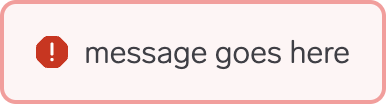
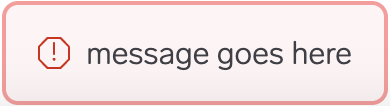
Bump warp deps - react: 1.4.2, vue: 1.2.4 and css: 1.8.3 (#182)

Changed region(s): [[0.0, 0.0, 1.0, 1.0], [0.2171, 0.375, 0.8992, 0.6635], [0.093, 0.3462, 0.186, 0.6635]]

diff --git a/docs/blog/posts/week7.md b/docs/blog/posts/week7.md
@@ -1,0 +1,49 @@
+---
+title: 'WARP releases'
+date: 2024-02-15
+---
+
+Patch and minor releases incoming.
+
+---
+
+# Week 7
+
+## @warp-ds/css@1.8.3
+
+* **cc:** fix pagination classes ([#166](https://github.com/warp-ds/css/issues/166)) ([7b2b741](https://github.com/warp-ds/css/commit/7b2b74177ae9f7d960b0ca0cd89f775c78a2511e))
+
+[Changelog](https://github.com/warp-ds/css/releases)
+
+## @warp-ds/elements@1.3.0
+
+### Features
+
+* **pill:** Add pill to elements ([#126](https://github.com/warp-ds/elements/issues/126)) ([df25503](https://github.com/warp-ds/elements/commit/df25503844a61efacb2f13ce8dbdbdc87f0f333f))
+
+### Fixes
+
+* **alert/toast:** use new icons (outlined instead of filled) that came with v2.0.0 of @warp-ds/icons ([#128](https://github.com/warp-ds/elements/issues/128)) ([236356e](https://github.com/warp-ds/elements/commit/236356e855b148d0f3d0cd16ad24d2f39c0da066))
+* **toast:** add translation for toast aria-label ([#123](https://github.com/warp-ds/elements/issues/123)) ([9458ed4](https://github.com/warp-ds/elements/commit/9458ed4ba67c362a5f9a8e4c5030ffc61079977f))
+
+[Changelog](https://github.com/warp-ds/elements/releases)
+
+## @warp-ds/react@1.4.2
+
+### Bug Fixes
+
+* **modal:** bump dependencies to fix Modal scrolling issues ([#202](https://github.com/warp-ds/react/issues/202)) ([f5650c1](https://github.com/warp-ds/react/commit/f5650c192850182b7aa7163507098c722cdbf496))
+* **pagination:** use styled anchors instead of Button Pill ([#206](https://github.com/warp-ds/react/issues/206)) ([c0ae4e6](https://github.com/warp-ds/react/commit/c0ae4e66753531e33d0ce0e36f19865a63314d5f))
+* **alert:** use new icons (outlined instead of filled) that came with v2.0.0 of @warp-ds/icons ([#205](https://github.com/warp-ds/react/issues/205)) ([121bd55](https://github.com/warp-ds/react/commit/121bd554de5094ef6b73a6ee3340a456d0304e98))
+
+[Changelog](https://github.com/warp-ds/react/releases)
+
+## @warp-ds/vue@1.2.4
+
+### Bug Fixes
+
+* **alert:** use new icons (outlined instead of filled) that came with v2.0.0 of @warp-ds/icons ([#136](https://github.com/warp-ds/vue/issues/136)) ([e9ad066](https://github.com/warp-ds/vue/commit/e9ad0667ec6b4b5acbbac52329bba3b7c3fe52e7))
+* **modal:** bump dependencies to fix Modal scrolling issues ([#134](https://github.com/warp-ds/vue/issues/134)) ([7e7e919](https://github.com/warp-ds/vue/commit/7e7e919b03ca60bb39b281e879a08b5cfe184190))
+* **pill:** replace letter x with icon close ([#129](https://github.com/warp-ds/vue/issues/129)) ([56763e5](https://github.com/warp-ds/vue/commit/56763e5c754d04ad250347e1e76a3137a764f7f2))
+
+[Changelog](https://github.com/warp-ds/vue/releases)
